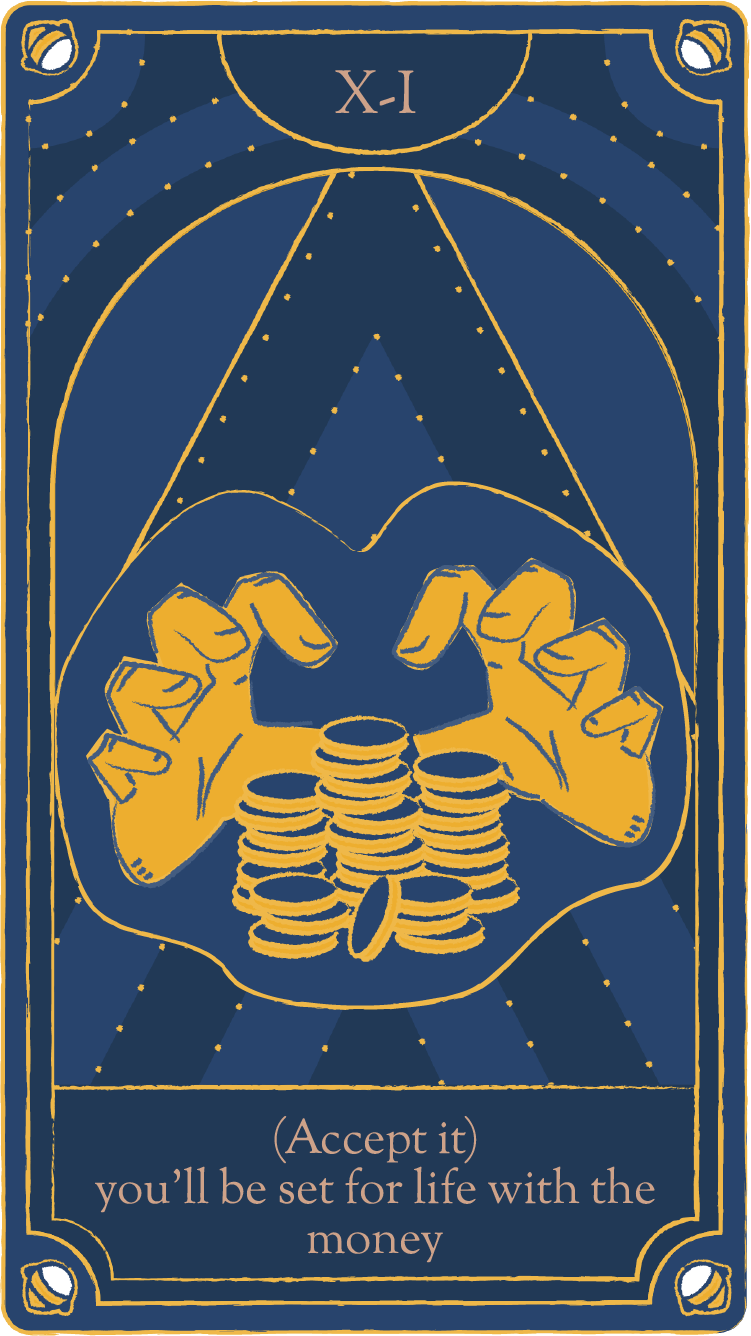
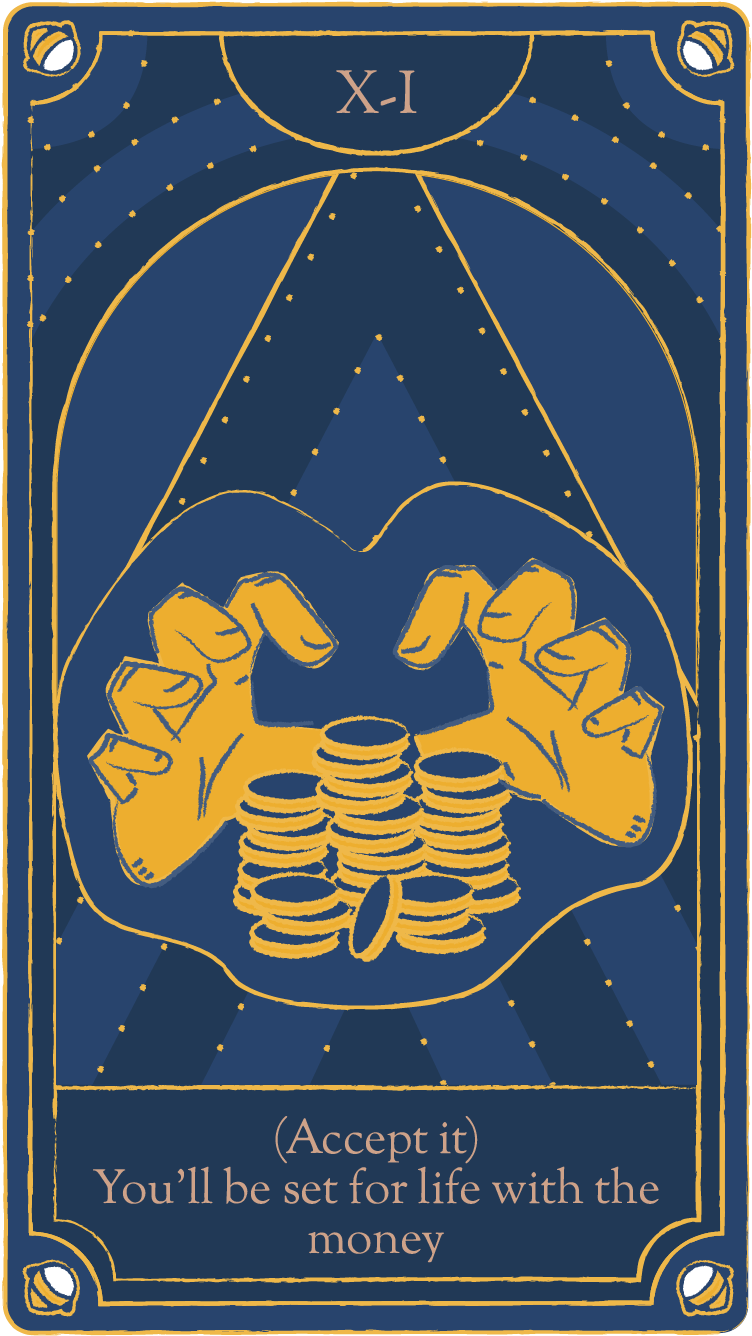
update questions on Discovery page

diff --git a/discovery.html b/discovery.html
@@ -77,10 +77,9 @@
         <div>
           <div class="discovery-description-container text-center d-flex flex-column">
             <span class="discovery-description-1">In your dream,<br/>you see two items appear before you.</span>
+            <span class="discovery-description-1">"Tell me, young one, what is it you want in life?"</span>
             <span class="discovery-description-1">` ` ` ` ` ` ` ` ` ` ` ` ` `</span>
-            <span class="discovery-description-2">"Tell me, young one, what is it you want in life?"</span>
-            <span class="discovery-description-1">` ` ` ` ` ` ` ` ` ` ` ` ` `</span>
-            <span class="discovery-description-1">A voice asks.<br/>You reach out for...</span>
+            <span class="discovery-description-2">You reach out for...</span>
           </div>
           <div class="discovery-cards-wrapper d-flex justify-content-between mt-5">
             <div class="discovery-card-container">
@@ -169,10 +168,9 @@
         <div>
           <div class="discovery-description-container text-center d-flex flex-column">
             <span class="discovery-description-1">You hear your mother call out to you as you cross the village border.<br/>She hands you a coin pouch.</span>
+            <span class="discovery-description-1">"It’s not much, but we’re hoping it can start you off."</span>
             <span class="discovery-description-1">` ` ` ` ` ` ` ` ` ` ` ` ` `</span>
-            <span class="discovery-description-2">"It’s not much, but we’re hoping it can start you off."</span>
-            <span class="discovery-description-1">` ` ` ` ` ` ` ` ` ` ` ` ` `</span>
-            <span class="discovery-description-1">she tells you.<br/>What do you do with the coins?</span>
+            <span class="discovery-description-2">What do you do with the coins?</span>
           </div>
           <div class="discovery-cards-wrapper d-flex justify-content-between mt-5">
             <div class="discovery-card-container">
@@ -303,10 +301,10 @@
         <div>
           <div class="discovery-description-container text-center d-flex flex-column">
             <span class="discovery-description-1">The orphanage groundskeeper tells you her plans to<br/>organise a festival for the children and asks you to help with the shopping.</span>
+            <span class="discovery-description-1">"Unfortunately, this is all we have."</span>
+            <span class="discovery-description-1">She hands you a bag of coins.</span>
             <span class="discovery-description-1">` ` ` ` ` ` ` ` ` ` ` ` ` `</span>
-            <span class="discovery-description-2">"Unfortunately, this is all we have."</span>
-            <span class="discovery-description-1">` ` ` ` ` ` ` ` ` ` ` ` ` `</span>
-            <span class="discovery-description-1">she apologises as she hands you a bag of coins.<br/>How do you budget the money?</span>
+            <span class="discovery-description-2">How do you budget the money?</span>
           </div>
           <div class="discovery-cards-wrapper d-flex justify-content-between mt-5">
             <div class="discovery-card-container">
@@ -393,11 +391,10 @@
         <div>
           <div class="discovery-description-container text-center d-flex flex-column">
             <span class="discovery-description-1">Check, check, and check!<br/>All that’s left to get is eggs.</span>
+            <span class="discovery-description-1">"That’ll be 30 coins."</span>
+            <span class="discovery-description-1">"What?!" Eggs shouldn’t cost that much, but this is the only stall selling them.</span>
             <span class="discovery-description-1">` ` ` ` ` ` ` ` ` ` ` ` ` `</span>
-            <span class="discovery-description-2">"That’ll be 30 coins." the vendor informs you.</span>
-            <span class="discovery-description-2">"What?!"</span>
-            <span class="discovery-description-1">` ` ` ` ` ` ` ` ` ` ` ` ` `</span>
-            <span class="discovery-description-1">Eggs shouldn’t cost that much, but this is the only stall selling them.<br/>What do you do?</span>
+            <span class="discovery-description-2"><br/>What do you do?</span>
           </div>
           <div class="discovery-cards-wrapper d-flex justify-content-between mt-5">
             <div class="discovery-card-container">
@@ -439,7 +436,7 @@
         </div>
         <div>
           <div class="discovery-description-container text-center d-flex flex-column">
-            <span class="discovery-description-1">You notice that the town has a community garden where<br/>farmers grow your crop of choice and help you sell them,<br/>and you get a portion of the earnings as returns.</span>
+            <span class="discovery-description-1">You notice that the town has a community garden where<br/>farmers grow your crop of choice and help you sell them.<br/>You then get a portion of the earnings as returns.</span>
             <span class="discovery-description-1">` ` ` ` ` ` ` ` ` ` ` ` ` `</span>
             <span class="discovery-description-2">How do you make use of this garden?</span>
           </div>
@@ -483,11 +480,10 @@
         </div>
         <div>
           <div class="discovery-description-container text-center d-flex flex-column">
-            <span class="discovery-description-1">You’ve been in the town for a while, and<br/>the governor offers you a job as his second-in-command<br/>because he likes that you’re new here.</span>
+            <span class="discovery-description-1">As the new addition to the town,<br/>the governor offers you a job as his second-in-command.</span>
+            <span class="discovery-description-1">The job pays 10,000 gold coins a year,<br/>but you can’t mingle with the townsfolk anymore.</span>
             <span class="discovery-description-1">` ` ` ` ` ` ` ` ` ` ` ` ` `</span>
-            <span class="discovery-description-2">The job pays 10,000 gold coins a year,<br/>but you can’t mingle with the townsfolk anymore.</span>
-            <span class="discovery-description-1">` ` ` ` ` ` ` ` ` ` ` ` ` `</span>
-            <span class="discovery-description-1">Do you accept or reject the offer?</span>
+            <span class="discovery-description-2">Do you accept or reject the offer?</span>
           </div>
           <div class="discovery-cards-wrapper d-flex justify-content-between mt-5">
             <div class="discovery-card-container">
@@ -530,11 +526,10 @@
         <div>
           <div class="discovery-description-container text-center d-flex flex-column">
             <span class="discovery-description-1">Curious about the governor,<br/>you ask the orphanage groundskeeper about him.</span>
+            <span class="discovery-description-1">"He keeps increasing taxes, and he’s been making our lives hard,"</span>
+            <span class="discovery-description-1">Knowing this now, you can’t let the townsfolk suffer any longer.</span>
             <span class="discovery-description-1">` ` ` ` ` ` ` ` ` ` ` ` ` `</span>
-            <span class="discovery-description-2">"He keeps increasing taxes, and he’s been making our lives hard,"</span>
-            <span class="discovery-description-2">she reveals.</span>
-            <span class="discovery-description-1">` ` ` ` ` ` ` ` ` ` ` ` ` `</span>
-            <span class="discovery-description-1">Knowing this now, you can’t let the townsfolk suffer any longer.<br/>Inspired by the tale of Robin Hood, you plan to…</span>
+            <span class="discovery-description-2">Inspired by the tale of Robin Hood, you plan to…</span>
           </div>
           <div class="discovery-cards-wrapper d-flex justify-content-between mt-5">
             <div class="discovery-card-container">
@@ -931,9 +926,9 @@
         </div>
         <div>
           <div class="discovery-description-container text-center d-flex flex-column">
-            <span class="discovery-description-1">It’s a tough fight, but the fighters successfully slay the governor and his monsters.<br/>From the rubble, a glint of gold catches your eye.<br/>You pick up the lamp and wipe it clean, and a genie emerges.</span>
+            <span class="discovery-description-1">It’s a tough fight, but you successfully slay the governor and his monsters.<br/>From the rubble, a glint of gold catches your eye.<br/>You pick up the lamp and wipe it clean, and a genie emerges.</span>
+            <span class="discovery-description-1">"For freeing me, I offer you three wishes,"</span>
             <span class="discovery-description-1">` ` ` ` ` ` ` ` ` ` ` ` ` `</span>
-            <span class="discovery-description-2">"For freeing me, I offer you three wishes," he says.</span>
             <span class="discovery-description-2">You choose…</span>
           </div>
           <div class="discovery-cards-wrapper d-flex justify-content-between mt-5">
@@ -1019,10 +1014,9 @@
         <div class="w-100 h-100 px-2 d-flex flex-column justify-content-between">
           <div class="discovery-description-container text-center d-flex flex-column">
             <span class="discovery-description-1">In your dream,<br/>you see two items appear before you.</span>
+            <span class="discovery-description-1">"Tell me, young one, what is it you want in life?"</span>
             <span class="discovery-description-1">` ` ` ` ` ` ` ` ` ` ` ` ` `</span>
-            <span class="discovery-description-2">"Tell me, young one, what is it you want in life?"</span>
-            <span class="discovery-description-1">` ` ` ` ` ` ` ` ` ` ` ` ` `</span>
-            <span class="discovery-description-1">A voice asks.<br/>You reach out for...</span>
+            <span class="discovery-description-2">You reach out for...</span>
           </div>
           <div id="mobile_discovery_cards_wrapper_1" class="discovery-cards-wrapper mobile-discovery-cards-wrapper d-flex justify-content-around mt-3">
             <div class="discovery-card-container mobile-discovery-card-container">
@@ -1105,10 +1099,9 @@
         <div class="w-100 h-100 px-2 d-flex flex-column justify-content-between">
           <div class="discovery-description-container text-center d-flex flex-column">
             <span class="discovery-description-1">You hear your mother call out to you as you cross the village border.<br/>She hands you a coin pouch.</span>
+            <span class="discovery-description-1">"It’s not much, but we’re hoping it can start you off."</span>
             <span class="discovery-description-1">` ` ` ` ` ` ` ` ` ` ` ` ` `</span>
-            <span class="discovery-description-2">"It’s not much, but we’re hoping it can start you off."</span>
-            <span class="discovery-description-1">` ` ` ` ` ` ` ` ` ` ` ` ` `</span>
-            <span class="discovery-description-1">she tells you.<br/>What do you do with the coins?</span>
+            <span class="discovery-description-2">What do you do with the coins?</span>
           </div>
           <div id="mobile_discovery_cards_wrapper_3" class="discovery-cards-wrapper mobile-discovery-cards-wrapper d-flex justify-content-around mt-3">
             <div class="discovery-card-container mobile-discovery-card-container">
@@ -1233,10 +1226,10 @@
         <div class="w-100 h-100 px-2 d-flex flex-column justify-content-between">
           <div class="discovery-description-container text-center d-flex flex-column">
             <span class="discovery-description-1">The orphanage groundskeeper tells you her plans to<br/>organise a festival for the children and asks you to help with the shopping.</span>
+            <span class="discovery-description-1">"Unfortunately, this is all we have."</span>
+            <span class="discovery-description-1">She hands you a bag of coins.</span>
             <span class="discovery-description-1">` ` ` ` ` ` ` ` ` ` ` ` ` `</span>
-            <span class="discovery-description-2">"Unfortunately, this is all we have."</span>
-            <span class="discovery-description-1">` ` ` ` ` ` ` ` ` ` ` ` ` `</span>
-            <span class="discovery-description-1">she apologises as she hands you a bag of coins.<br/>How do you budget the money?</span>
+            <span class="discovery-description-2">How do you budget the money?</span>
           </div>
           <div id="mobile_discovery_cards_wrapper_6" class="discovery-cards-wrapper mobile-discovery-cards-wrapper d-flex justify-content-around mt-3">
             <div class="discovery-card-container mobile-discovery-card-container">
@@ -1319,11 +1312,10 @@
         <div class="w-100 h-100 px-2 d-flex flex-column justify-content-between">
           <div class="discovery-description-container text-center d-flex flex-column">
             <span class="discovery-description-1">Check, check, and check!<br/>All that’s left to get is eggs.</span>
+            <span class="discovery-description-1">"That’ll be 30 coins."</span>
+            <span class="discovery-description-1">"What?!" Eggs shouldn’t cost that much, but this is the only stall selling them.</span>
             <!-- <span class="discovery-description-1">` ` ` ` ` ` ` ` ` ` ` ` ` `</span> -->
-            <span class="discovery-description-2">"That’ll be 30 coins." the vendor informs you.</span>
-            <span class="discovery-description-2">"What?!"</span>
-            <!-- <span class="discovery-description-1">` ` ` ` ` ` ` ` ` ` ` ` ` `</span> -->
-            <span class="discovery-description-1">Eggs shouldn’t cost that much, but this is the only stall selling them.<br/>What do you do?</span>
+            <span class="discovery-description-2"><br/>What do you do?</span>
           </div>
           <div id="mobile_discovery_cards_wrapper_8" class="discovery-cards-wrapper mobile-discovery-cards-wrapper d-flex justify-content-around mt-3">
             <div class="discovery-card-container mobile-discovery-card-container">
@@ -1363,7 +1355,7 @@
         </div>
         <div class="w-100 h-100 px-2 d-flex flex-column justify-content-between">
           <div class="discovery-description-container text-center d-flex flex-column">
-            <span class="discovery-description-1">You notice that the town has a community garden where<br/>farmers grow your crop of choice and help you sell them,<br/>and you get a portion of the earnings as returns.</span>
+            <span class="discovery-description-1">You notice that the town has a community garden where<br/>farmers grow your crop of choice and help you sell them.<br/>You then get a portion of the earnings as returns.</span>
             <span class="discovery-description-1">` ` ` ` ` ` ` ` ` ` ` ` ` `</span>
             <span class="discovery-description-2">How do you make use of this garden?</span>
           </div>
@@ -1405,11 +1397,10 @@
         </div>
         <div class="w-100 h-100 px-2 d-flex flex-column justify-content-between">
           <div class="discovery-description-container text-center d-flex flex-column">
-            <span class="discovery-description-1">You’ve been in the town for a while, and<br/>the governor offers you a job as his second-in-command<br/>because he likes that you’re new here.</span>
+            <span class="discovery-description-1">As the new addition to the town,<br/>the governor offers you a job as his second-in-command.</span>
+            <span class="discovery-description-1">The job pays 10,000 gold coins a year,<br/>but you can’t mingle with the townsfolk anymore.</span>
             <span class="discovery-description-1">` ` ` ` ` ` ` ` ` ` ` ` ` `</span>
-            <span class="discovery-description-2">The job pays 10,000 gold coins a year,<br/>but you can’t mingle with the townsfolk anymore.</span>
-            <span class="discovery-description-1">` ` ` ` ` ` ` ` ` ` ` ` ` `</span>
-            <span class="discovery-description-1">Do you accept or reject the offer?</span>
+            <span class="discovery-description-2">Do you accept or reject the offer?</span>
           </div>
           <div id="mobile_discovery_cards_wrapper_10" class="discovery-cards-wrapper mobile-discovery-cards-wrapper d-flex justify-content-around mt-3">
             <div class="discovery-card-container mobile-discovery-card-container">
@@ -1450,11 +1441,10 @@
         <div class="w-100 h-100 px-2 d-flex flex-column justify-content-between">
           <div class="discovery-description-container text-center d-flex flex-column">
             <span class="discovery-description-1">Curious about the governor,<br/>you ask the orphanage groundskeeper about him.</span>
+            <span class="discovery-description-1">"He keeps increasing taxes, and he’s been making our lives hard,"</span>
+            <span class="discovery-description-1">Knowing this now, you can’t let the townsfolk suffer any longer.</span>
             <!-- <span class="discovery-description-1">` ` ` ` ` ` ` ` ` ` ` ` ` `</span> -->
-            <span class="discovery-description-2">"He keeps increasing taxes, and he’s been making our lives hard,"</span>
-            <span class="discovery-description-2">she reveals.</span>
-            <!-- <span class="discovery-description-1">` ` ` ` ` ` ` ` ` ` ` ` ` `</span> -->
-            <span class="discovery-description-1">Knowing this now, you can’t let the townsfolk suffer any longer.<br/>Inspired by the tale of Robin Hood, you plan to…</span>
+            <span class="discovery-description-2">Inspired by the tale of Robin Hood, you plan to…</span>
           </div>
           <div id="mobile_discovery_cards_wrapper_11" class="discovery-cards-wrapper mobile-discovery-cards-wrapper d-flex justify-content-around mt-3">
             <div class="discovery-card-container mobile-discovery-card-container">
@@ -1833,9 +1823,9 @@
         </div>
         <div class="w-100 h-100 px-2 d-flex flex-column justify-content-between">
           <div class="discovery-description-container text-center d-flex flex-column">
-            <span class="discovery-description-1">It’s a tough fight, but the fighters successfully slay the governor and his monsters.<br/>From the rubble, a glint of gold catches your eye.<br/>You pick up the lamp and wipe it clean, and a genie emerges.</span>
+            <span class="discovery-description-1">It’s a tough fight, but you successfully slay the governor and his monsters.<br/>From the rubble, a glint of gold catches your eye.<br/>You pick up the lamp and wipe it clean, and a genie emerges.</span>
+            <span class="discovery-description-1">"For freeing me, I offer you three wishes,"</span>
             <span class="discovery-description-1">` ` ` ` ` ` ` ` ` ` ` ` ` `</span>
-            <span class="discovery-description-2">"For freeing me, I offer you three wishes," he says.</span>
             <span class="discovery-description-2">You choose…</span>
           </div>
           <div id="mobile_discovery_cards_wrapper_20" class="discovery-cards-wrapper mobile-discovery-cards-wrapper d-flex justify-content-around mt-3">
